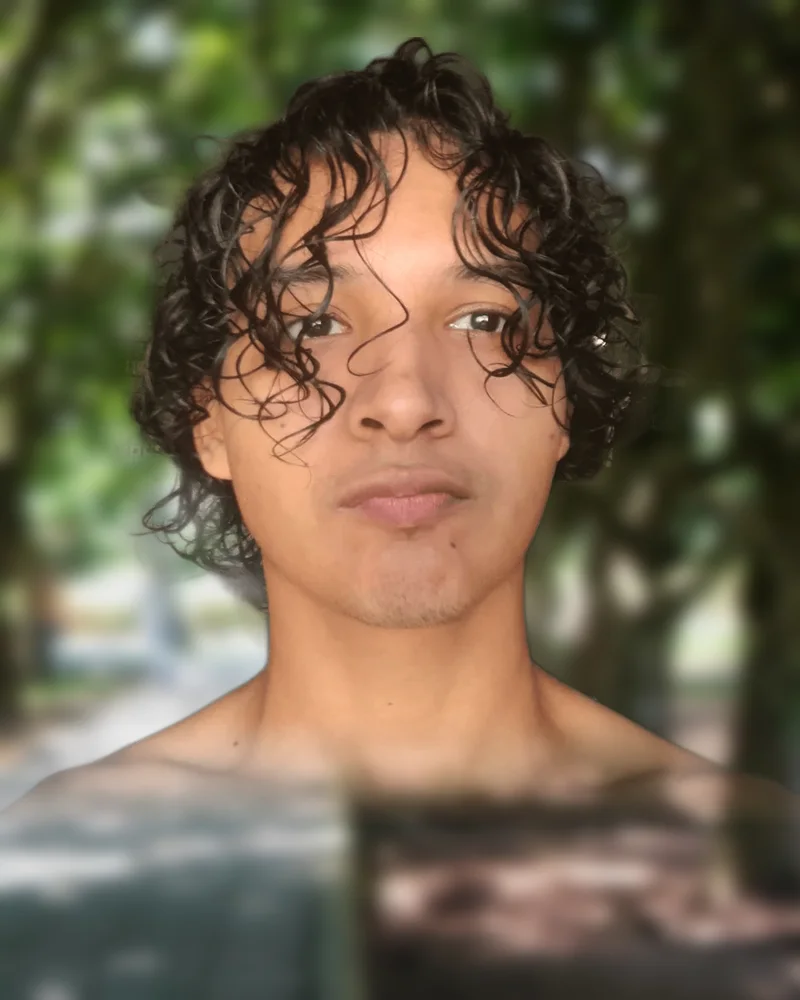
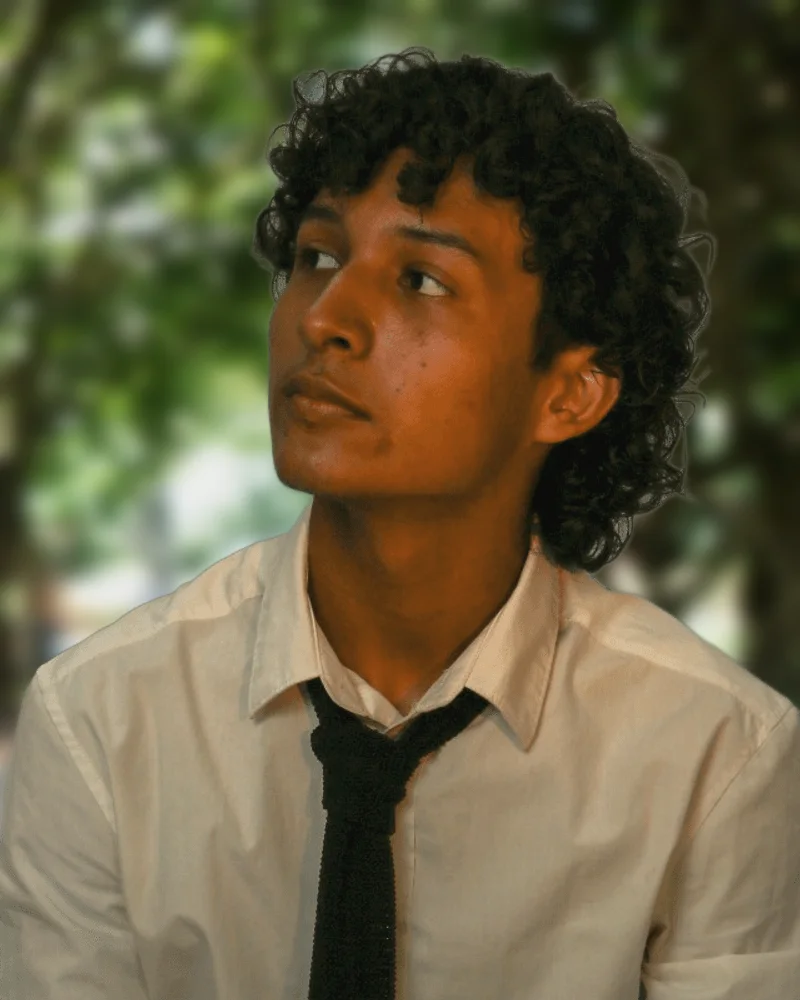
Cambia el retrato de Alejandro Ciro por su foto de estudio
Foto con camisa y corbata, sin fondo y puesta sobre el mismo parque que las de Juan y Ana. Foto del equipo regenerada.

diff --git a/app.js b/app.js
@@ -2442,7 +2442,7 @@ const vistas = {
 const AUTORES = [
   { nombre: "Juan Parra", corto: "Juan", foto: "assets/autor-juan.webp?v=2" },
   { nombre: "Ana Vega", corto: "Ana", foto: "assets/autor-ana.webp?v=2" },
-  { nombre: "Alejandro Ciro", corto: "Alejandro", foto: "assets/autor-alejandro.webp?v=2" },
+  { nombre: "Alejandro Ciro", corto: "Alejandro", foto: "assets/autor-alejandro.webp?v=3" },
 ];
 /** Nombre del grupo de autores. */
 const GRUPO_AUTORES = "P.V.C Education";
@@ -2488,7 +2488,7 @@ const htmlEquipo = () => {
     `<div class=equipo__controles id=equipo-controles>` +
     `<div class=equipo__botones role=group aria-label="Enfocar a una persona del equipo">${botones}</div>` +
     `<button class="b2 equipo__pausa" data-a=equipoPausa>Pausar recorrido</button>` +
-    `<a class=equipo__descarga href="assets/equipo-pvc.webp?v=2" download="equipo-pvc.webp">Descargar foto del equipo</a></div>`
+    `<a class=equipo__descarga href="assets/equipo-pvc.webp?v=3" download="equipo-pvc.webp">Descargar foto del equipo</a></div>`
   );
 };
 /** Calcula el transform del lienzo que centra y agranda el arco i, como una cámara que acerca. */

diff --git a/index.html b/index.html
@@ -11,7 +11,7 @@
   <link rel="preconnect" href="https://fonts.googleapis.com">
   <link rel="preconnect" href="https://fonts.gstatic.com" crossorigin>
   <link rel="stylesheet" href="https://fonts.googleapis.com/css2?family=Cinzel:wght@600&amp;family=Cormorant+Garamond:wght@600;700&amp;family=Inter:wght@400;500;600;700&amp;display=swap">
-  <link rel="stylesheet" href="styles.css?v=4">
+  <link rel="stylesheet" href="styles.css?v=5">
 </head>
 <body>
   <!-- Fondo: auroras de luz y constelación animada (no se reinician al cambiar de vista) -->
@@ -107,6 +107,6 @@
     </footer>
   </div>
 
-  <script src="app.js?v=4"></script>
+  <script src="app.js?v=5"></script>
 </body>
 </html>
